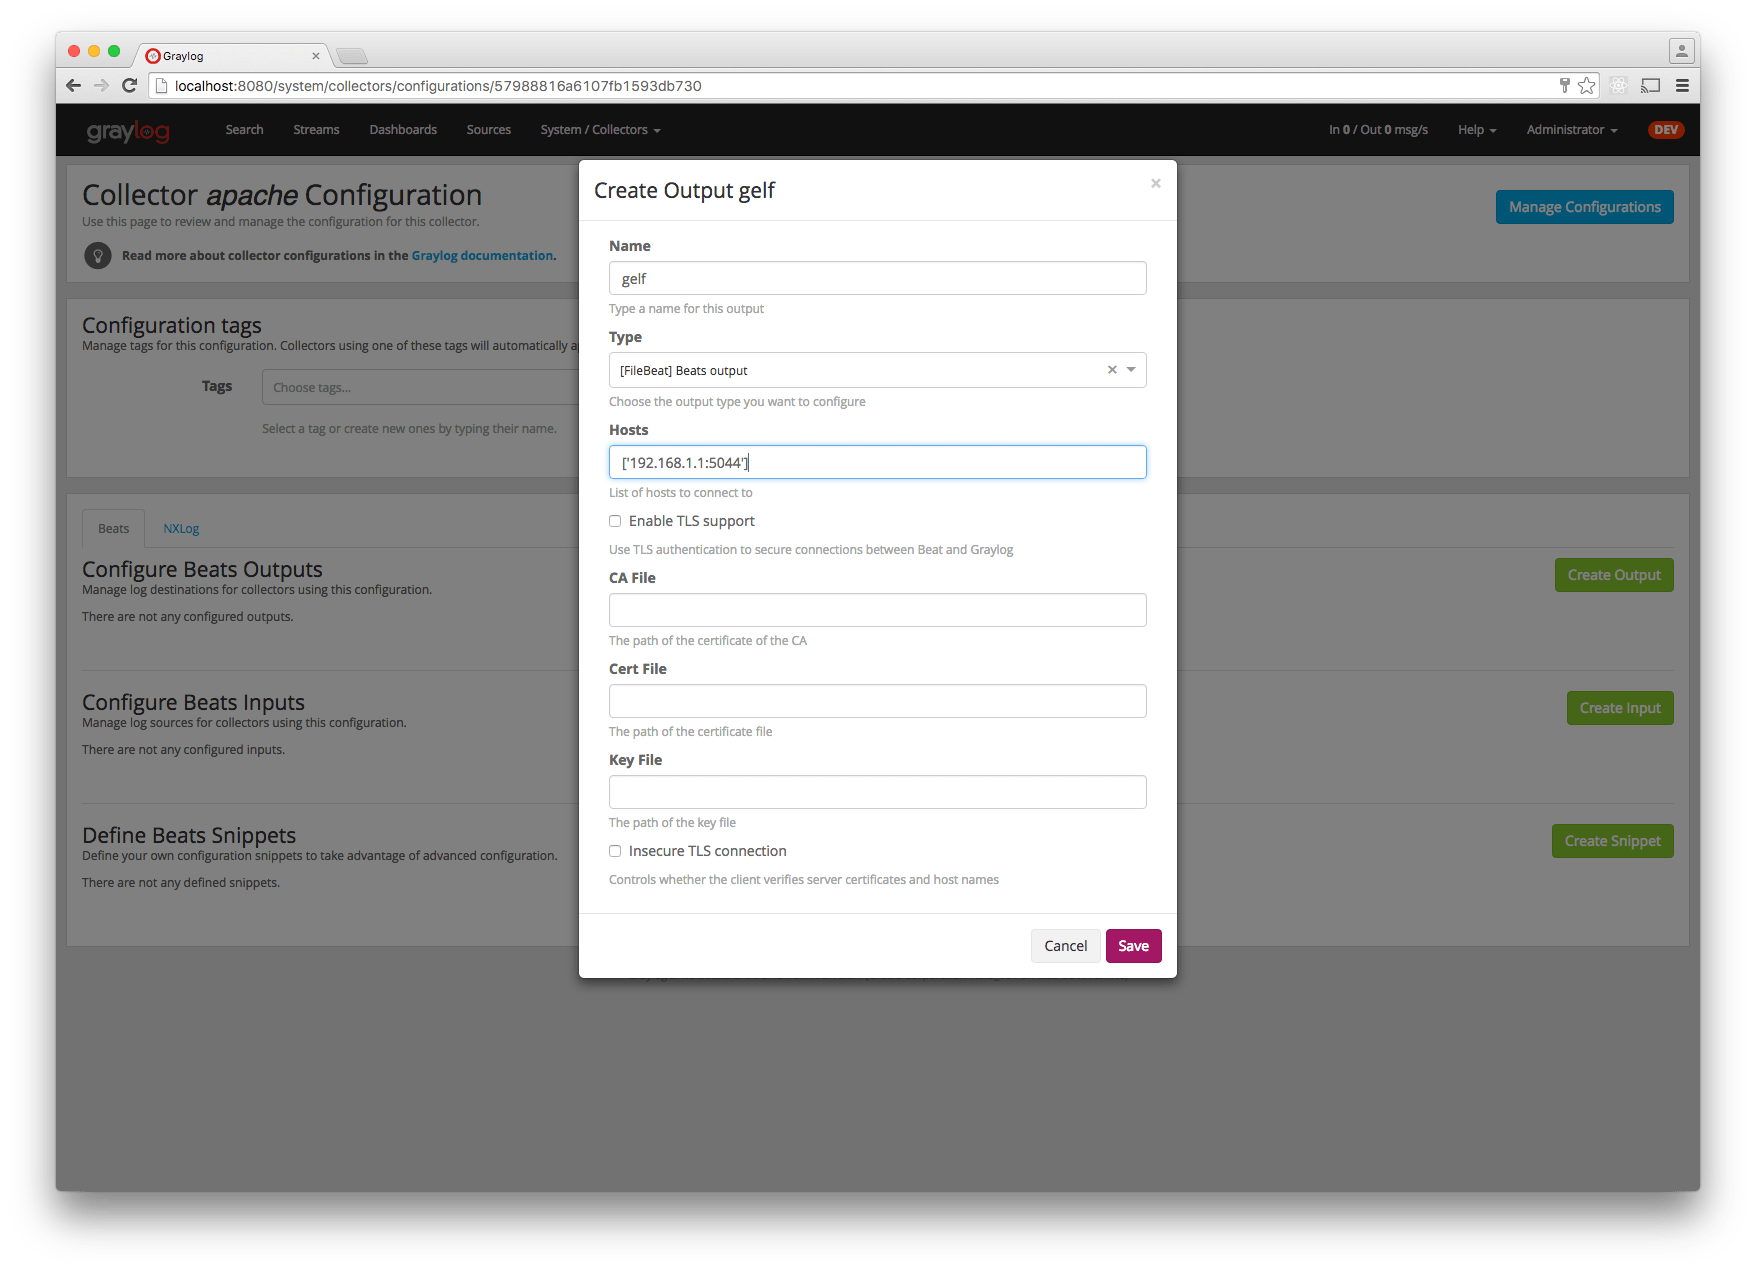
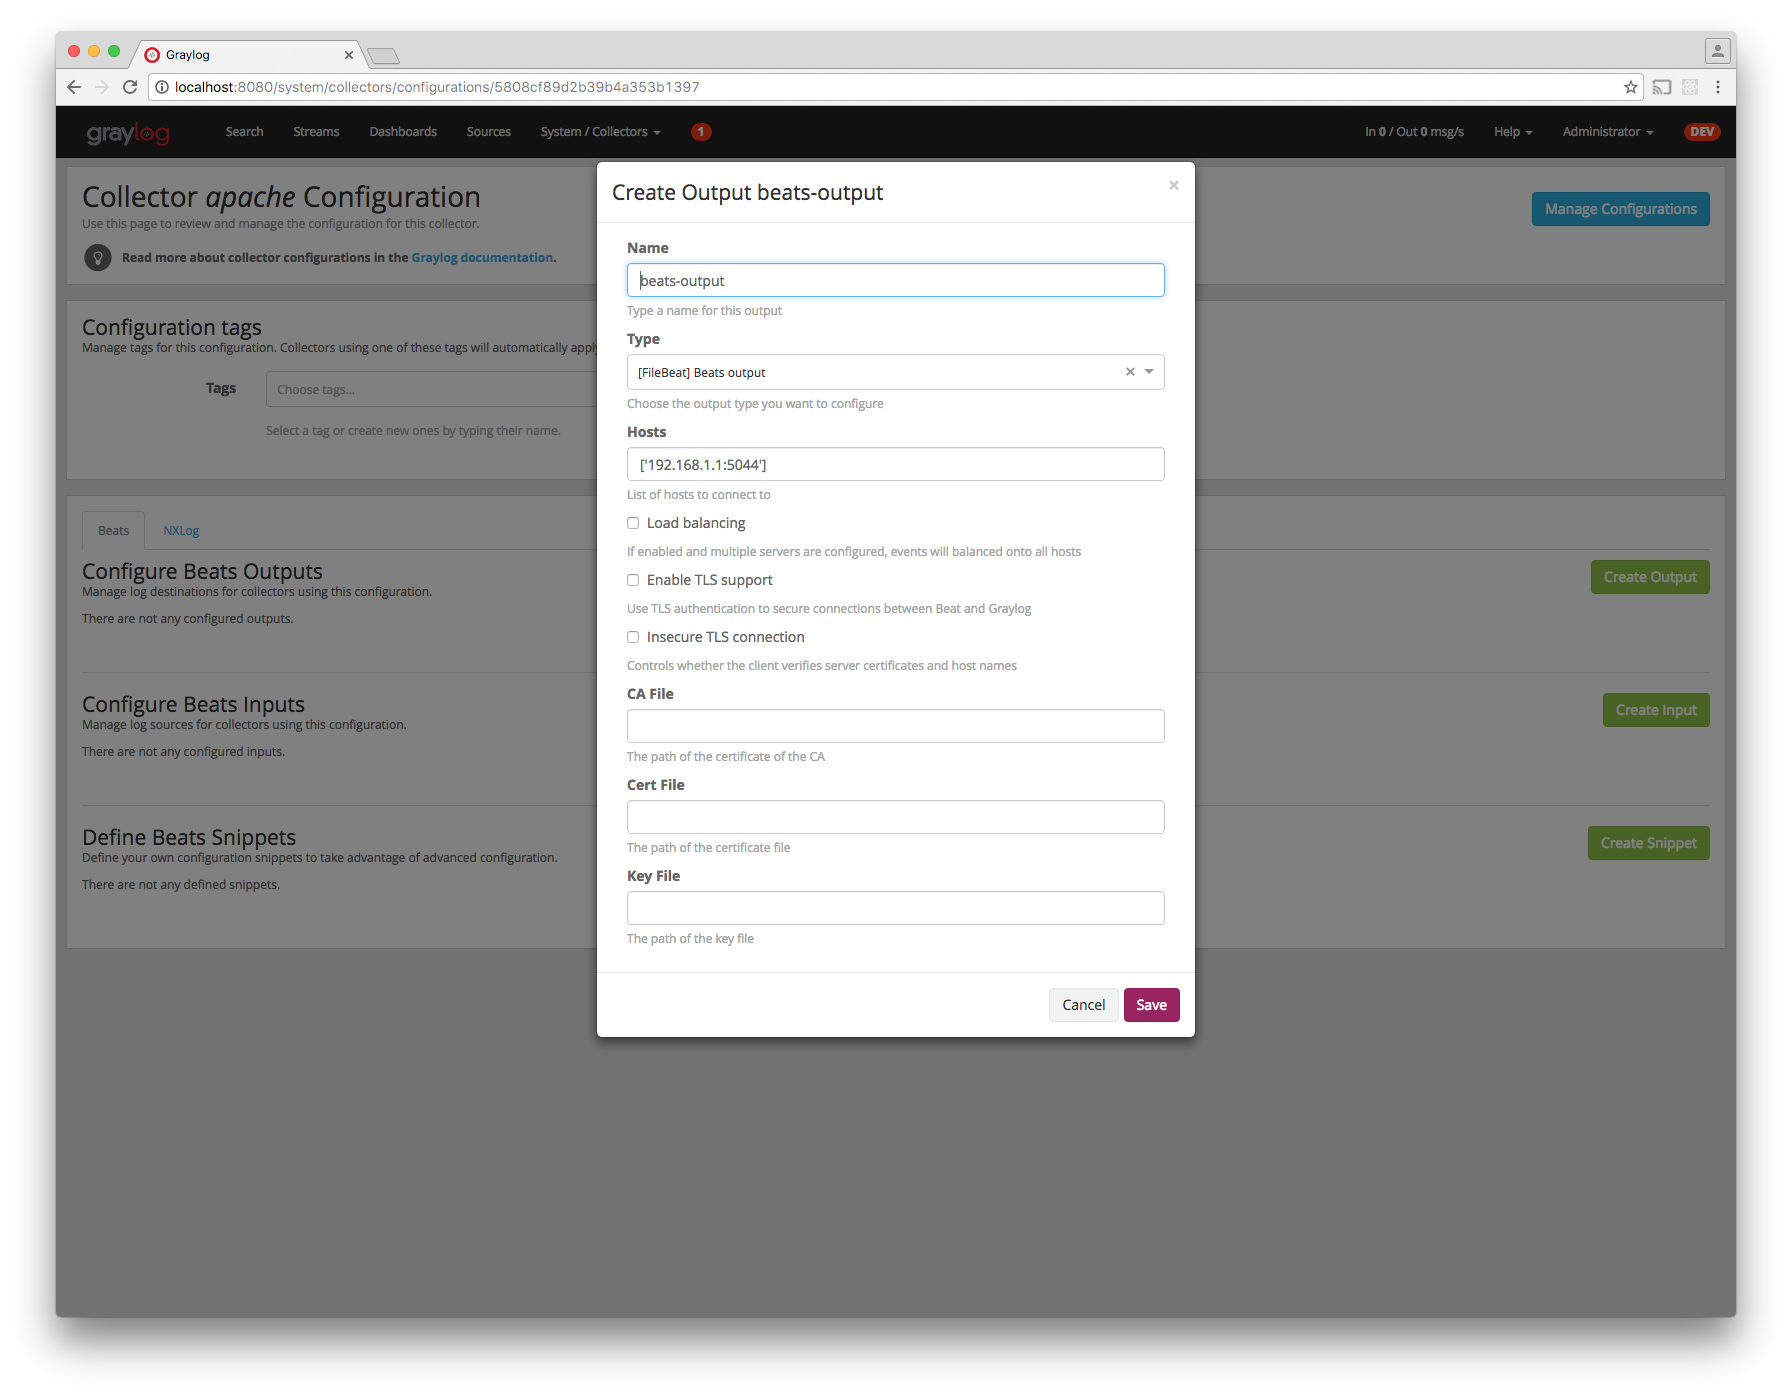
Fix mistakes in the step-by-step guide and point out that this all should run remotely (#214)

diff --git a/pages/collector_sidecar.rst b/pages/collector_sidecar.rst
@@ -4,10 +4,10 @@
 Graylog Collector Sidecar
 *************************
 
-Graylog Collector Sidecar is a lightweight supervisor application for various log collectors. It allows the user to centralize the configuration of remote log collectors.
-Configurations can be maintained through the Graylog web interface in a graphical way. For advanced configurations it's also possible to store the raw content in Graylog.
-The Sidecar is then fetching the configuration meant for the target host, renders a configuration file and starts the selected log collector on it. It detects changes
-automatically, performs an update and restarts the necessary process.
+Graylog Collector Sidecar is a lightweight configuration management system for different log collectors. It runs on a remote server and allows the user to centralize the
+configuration of log collectors. Configurations can be maintained through the Graylog web interface in a graphical way. For advanced configurations it's also possible
+to store the raw content in Graylog. The Sidecar is then fetching the configuration for the target host over the network, renders a configuration file and starts the selected
+log collector on it. It detects configuration changes automatically, performs an update and restarts the necessary process.
 
 
 .. image:: /images/sidecar_overview.png
@@ -27,6 +27,8 @@ Installation
 Currently we provide pre-compiled packages on the Github releases page of the project. Once the Sidecar project is settled and matured
 we will add the packages to the DEB and YUM online repositories.
 To get the Sidecar working `Download a package <https://github.com/Graylog2/collector-sidecar/releases>`_ and install it on the target system.
+
+All following commands should be executed on the **remote machine** where you want to collector log data from.
 
 Beats backend
 -------------
@@ -278,10 +280,15 @@ After enabling ``send_status`` or ``send_status`` + ``list_log_files`` go to the
 Step-by-step guide
 ~~~~~~~~~~~~~~~~~~
 
-We have prepared an example how to configure Sidecar in your Browser using the Graylog Webinterface. The assumption is that we will configure the collection of Apache logfiles and ship them with a Filebeat to the already present Beats input that is listening on Port 5044 on your Graylog Server.
+We have prepared an example on how to configure the Sidecar using the Graylog Webinterface. The assumption is that we want to collect Apache
+logfiles and ship them with a Filebeat collector to a Beats input that is listening on Port 5044 on your Graylog Server.
 
 
-- The first step is to navigate to the collector configurations. In your Graylog Webinterface click on ``System → Collectors → Manage configurations``. 
+- The first step is to create a Beats input where collectors can send data to. Click on ``System → Inputs`` and start a global Beats input on the listening address 0.0.0.0 and port 5044.
+
+.. image:: /images/sidecar_sbs0.png
+ 
+- Navigate to the collector configurations. In your Graylog Webinterface click on ``System → Collectors → Manage configurations``. 
 
 .. image:: /images/sidecar_sbs1.png
 
@@ -293,7 +300,7 @@ We have prepared an example how to configure Sidecar in your Browser using the G
 
 .. image:: /images/sidecar_sbs3.png
 
-- Click on the new configuration and create e.g. a Filebeat-GELF output. For a first test just change the IP to your Graylog server.
+- Click on the new configuration and create e.g. a Filebeat output. For a first test just change the IP to your Graylog server.
 
 .. image:: /images/sidecar_sbs4.png
 
